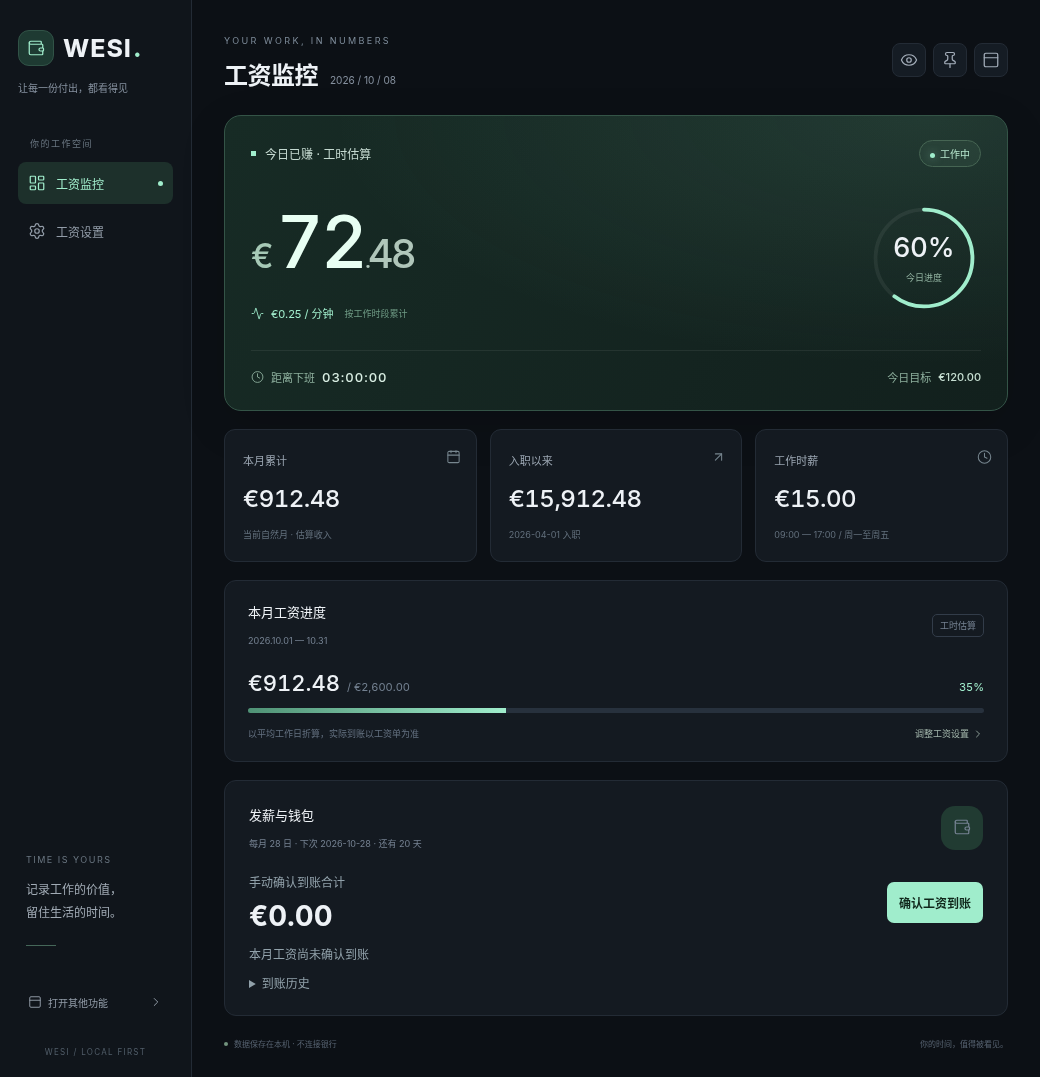
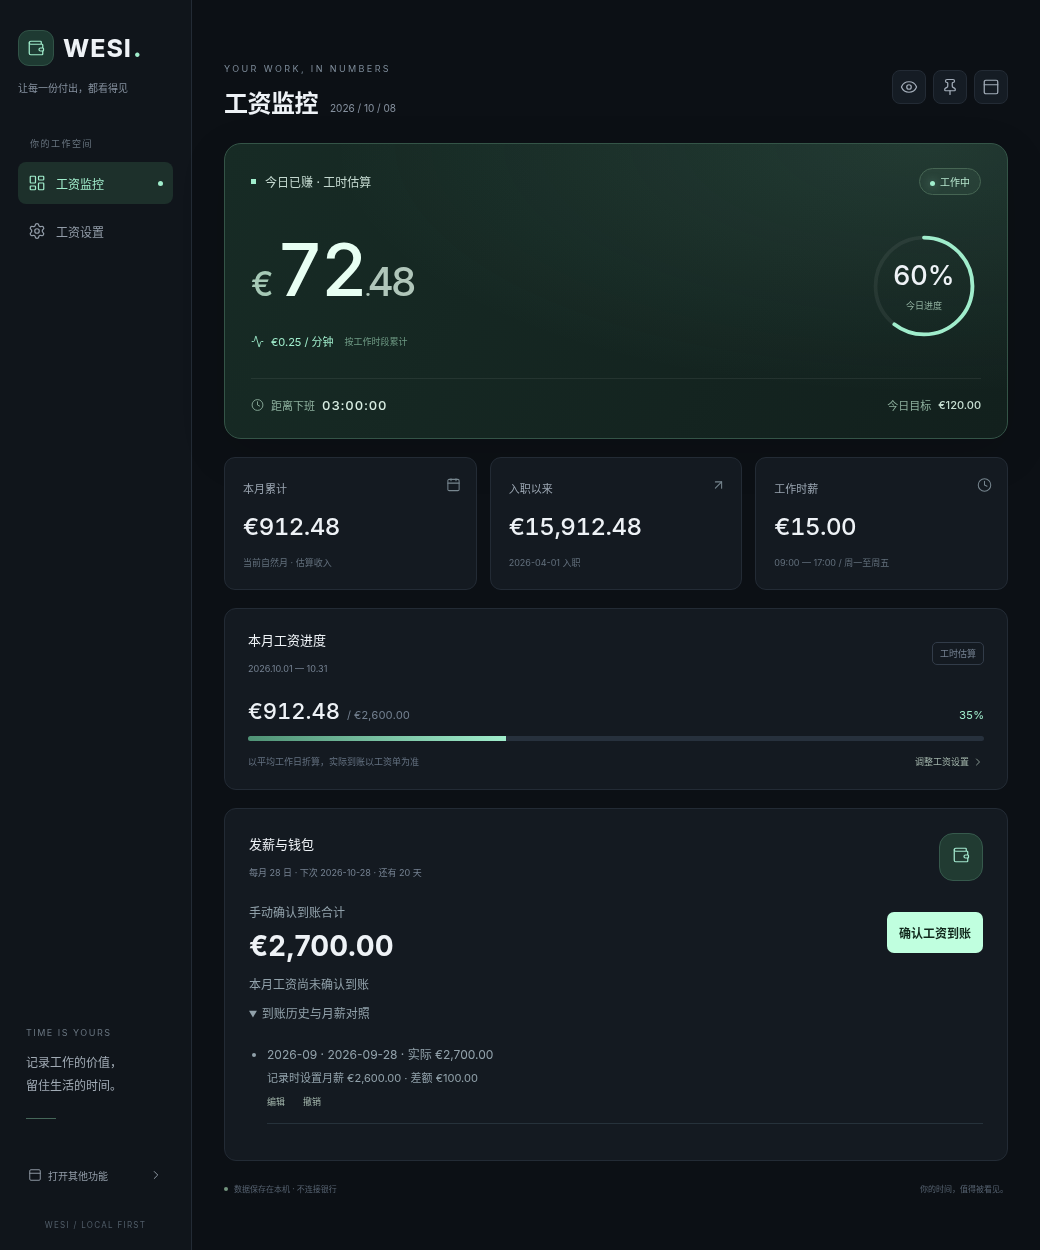
Add salary receipt editing, revocation and preserved salary comparisons

diff --git a/ui/app.js b/ui/app.js
@@ -7,6 +7,7 @@ const amount = $('amount');
 amount.format = {style: 'currency', currency: 'EUR', minimumFractionDigits: 2, maximumFractionDigits: 2};
 amount.locales = 'en-IE';
 let current = null, privacy = false, pinned = false, compact = false, pollTimer = null;
+let editingPeriod = null, historySignature = null;
 let connected = false, saving = false, generation = 0;
 const api = () => window.pywebview?.api;
 const text = (id, value) => { $(id).textContent = value; };
@@ -19,12 +20,27 @@ function render(data) {
   text('payday-info', `每月 ${payroll.payday} 日 · 下次 ${data.next_payday || '—'}${data.payday_days === undefined ? '' : ` · ${data.payday_days === 0 ? '今天发薪' : `还有 ${data.payday_days} 天`}`}`);
   const entries = Object.entries(payroll.receipts).sort(([a], [b]) => b.localeCompare(a));
   text('wallet-total', financial(entries.reduce((sum, [, receipt]) => sum + receipt.amount_cents / 100, 0)));
-  $('receipt-history').replaceChildren(...entries.map(([period, receipt]) => {
-    const item = document.createElement('li');
-    item.textContent = `${period} · ${receipt.received_on} · ${financial(receipt.amount_cents / 100)}`;
-    return item;
-  }));
-  if (!entries.length) {const li = document.createElement('li'); li.textContent = '暂无到账记录'; $('receipt-history').append(li);}
+  const signature = JSON.stringify([entries, privacy, data.income.monthly_net_salary]);
+  if (signature !== historySignature) {
+    historySignature = signature;
+    $('receipt-history').replaceChildren(...entries.map(([period, receipt]) => {
+      const item = document.createElement('li');
+      const expected = receipt.expected_cents === undefined ? data.income.monthly_net_salary : receipt.expected_cents / 100;
+      const description = document.createElement('div');
+      description.textContent = `${period} · ${receipt.received_on} · 实际 ${financial(receipt.amount_cents / 100)}`;
+      const comparison = document.createElement('div');
+      comparison.className = 'receipt-comparison';
+      comparison.textContent = `${receipt.expected_cents === undefined ? '当前设置月薪（旧记录参考）' : '记录时设置月薪'} ${financial(expected)} · 差额 ${financial(receipt.amount_cents / 100 - expected)}`;
+      item.append(description, comparison);
+      for (const [label, action] of [['编辑', () => openReceipt(period)], ['撤销', () => revokeReceipt(period)]]) {
+        const button = document.createElement('button'); button.type = 'button'; button.className = 'text-button';
+        button.textContent = label; button.setAttribute('aria-label', `${label} ${period} 到账记录`);
+        button.addEventListener('click', action); item.append(button);
+      }
+      return item;
+    }));
+    if (!entries.length) {const li = document.createElement('li'); li.textContent = '暂无到账记录'; $('receipt-history').append(li);}
+  }
   text('receipt-status', payroll.receipts[data.date.slice(0, 7)] ? '本月工资已记录到账' : '本月工资尚未确认到账');
   text('date', data.date.replaceAll('-', ' / '));
   text('status', data.status);
@@ -155,16 +171,35 @@ document.addEventListener('visibilitychange', () => {
   }
 });
 
-$('receipt-open').addEventListener('click', () => {
+function openReceipt(period = null) {
   if (!current || saving) return;
-  $('receipt-period').value = current.date.slice(0, 7);
+  editingPeriod = period;
+  const receipt = period ? current.payroll.receipts[period] : null;
+  $('receipt-period').value = period || current.date.slice(0, 7);
   $('receipt-period').max = current.date.slice(0, 7);
-  $('receipt-date').value = current.date;
+  $('receipt-date').value = receipt?.received_on || current.date;
   $('receipt-date').max = current.date;
-  $('receipt-amount').value = current.income.monthly_net_salary;
+  $('receipt-amount').value = receipt ? (receipt.amount_cents / 100).toFixed(2) : current.income.monthly_net_salary;
+  text('receipt-title', period ? '编辑到账记录' : '确认工资到账');
+  $('receipt-form').querySelector('button[type=submit]').textContent = period ? '保存修改' : '保存到账记录';
   text('receipt-error', '');
   $('receipt-dialog').showModal();
+}
+$('receipt-open').addEventListener('click', () => openReceipt());
+$('wallet-icon').addEventListener('click', () => { $('wallet-details').open = !$('wallet-details').open; });
+$('wallet-details').addEventListener('toggle', () => {
+  $('wallet-icon').setAttribute('aria-expanded', String($('wallet-details').open));
 });
+async function revokeReceipt(period) {
+  if (saving || !confirm(`撤销 ${period} 的到账记录？钱包合计会扣除这笔记录，此操作不会移动银行资金。`)) return;
+  saving = true; generation += 1;
+  try {
+    const result = await api().revoke_receipt(period);
+    if (!result.ok) {text('receipt-notice', result.error); return;}
+    render(result.snapshot); text('receipt-notice', `${period} 到账记录已撤销`);
+  } catch {text('receipt-notice', '撤销结果尚未确认，请刷新明细后检查。');}
+  finally {saving = false;}
+}
 $('receipt-close').addEventListener('click', () => $('receipt-dialog').close());
 function celebrateReceipt() {
   if (privacy || current.payroll?.animations === false || matchMedia('(prefers-reduced-motion: reduce)').matches) return;
@@ -195,13 +230,15 @@ $('receipt-form').addEventListener('submit', async event => {
   const button = event.submitter;
   saving = true; generation += 1; button.disabled = true;
   try {
-    const result = await api().confirm_receipt({
+    const payload = {
       period: $('receipt-period').value, amount: $('receipt-amount').value, received_on: $('receipt-date').value,
-    });
+    };
+    const result = editingPeriod ? await api().edit_receipt(editingPeriod, payload) : await api().confirm_receipt(payload);
     if (!result.ok) {text('receipt-error', result.error); return;}
     render(result.snapshot);
     $('receipt-dialog').close();
-    celebrateReceipt();
+    if (editingPeriod) text('receipt-notice', '到账记录已更新');
+    else {text('receipt-notice', '到账记录已保存'); celebrateReceipt();}
   } catch {text('receipt-error', '未能确认记录是否保存，请重试；同一月份不会重复记账。');}
   finally {saving = false; button.disabled = false;}
 });

diff --git a/ui/tests/dashboard.spec.js b/ui/tests/dashboard.spec.js
@@ -23,6 +23,19 @@ test.beforeEach(async ({ page }) => {
         window.fixture.payroll.receipts[payload.period] = {amount_cents: Math.round(Number(payload.amount)*100), received_on: payload.received_on};
         return {ok:true, snapshot:window.fixture};
       },
+      edit_receipt: async (original, payload) => {
+        if (window.failReceipt) return {ok:false, error:'保存失败'};
+        if (payload.period !== original && window.fixture.payroll.receipts[payload.period]) return {ok:false, error:'已经记录到账'};
+        const receipt = window.fixture.payroll.receipts[original];
+        delete window.fixture.payroll.receipts[original];
+        window.fixture.payroll.receipts[payload.period] = {...receipt, amount_cents: Math.round(Number(payload.amount)*100), received_on: payload.received_on};
+        return {ok:true, snapshot:window.fixture};
+      },
+      revoke_receipt: async period => {
+        if (window.failReceipt) return {ok:false, error:'撤销保存失败'};
+        delete window.fixture.payroll.receipts[period];
+        return {ok:true, snapshot:window.fixture};
+      },
       set_pin: async value => { window.calls.push(['pin', value]); return value; },
       set_compact: async value => { window.calls.push(['compact', value]); return value; },
       open_classic: async () => window.calls.push(['classic']),
@@ -124,4 +137,44 @@ test('failed receipt does not celebrate and reduced motion skips coins', async (
   await page.getByRole('button', {name:'保存到账记录'}).click();
   await expect(page.locator('#wallet-total')).toHaveText('€2,600.00');
   await expect(page.locator('.receipt-coin')).toHaveCount(0);
+});
+
+test('wallet edits compare salary, skip animation and revoke only after confirmation', async ({ page }) => {
+  await page.emulateMedia({reducedMotion:'reduce'});
+  await page.locator('#receipt-open').click();
+  await page.getByRole('button', {name:'保存到账记录'}).click();
+  await page.locator('#wallet-icon').click();
+  await expect(page.locator('#wallet-details')).toHaveAttribute('open', '');
+  await page.getByRole('button', {name:'编辑 2026-10 到账记录'}).click();
+  await page.locator('#receipt-amount').fill('2700');
+  await page.emulateMedia({reducedMotion:'no-preference'});
+  await page.getByRole('button', {name:'保存修改'}).click();
+  await expect(page.locator('#wallet-total')).toHaveText('€2,700.00');
+  await expect(page.locator('#receipt-history')).toContainText('差额 €100.00');
+  await expect(page.locator('.receipt-coin')).toHaveCount(0);
+  page.once('dialog', dialog => dialog.dismiss());
+  await page.getByRole('button', {name:'撤销 2026-10 到账记录'}).click();
+  await expect(page.locator('#wallet-total')).toHaveText('€2,700.00');
+  page.once('dialog', dialog => dialog.accept());
+  await page.getByRole('button', {name:'撤销 2026-10 到账记录'}).click();
+  await expect(page.locator('#wallet-total')).toHaveText('€0.00');
+  await expect(page.locator('#receipt-history')).toHaveText('暂无到账记录');
+});
+
+test('editing failure keeps dialog and record; revocation failure preserves wallet', async ({ page }) => {
+  await page.emulateMedia({reducedMotion:'reduce'});
+  await page.locator('#receipt-open').click();
+  await page.getByRole('button', {name:'保存到账记录'}).click();
+  await page.locator('#wallet-icon').click();
+  await page.evaluate(() => {window.failReceipt = true;});
+  await page.getByRole('button', {name:'编辑 2026-10 到账记录'}).click();
+  await page.locator('#receipt-amount').fill('2900');
+  await page.getByRole('button', {name:'保存修改'}).click();
+  await expect(page.locator('#receipt-error')).toHaveText('保存失败');
+  await expect(page.locator('#wallet-total')).toHaveText('€2,600.00');
+  await page.locator('#receipt-close').click();
+  page.once('dialog', dialog => dialog.accept());
+  await page.getByRole('button', {name:'撤销 2026-10 到账记录'}).click();
+  await expect(page.locator('#receipt-notice')).toHaveText('撤销保存失败');
+  await expect(page.locator('#wallet-total')).toHaveText('€2,600.00');
 });

diff --git a/ui/index.html b/ui/index.html
@@ -42,9 +42,9 @@
     </section>
     <section class="period card"><div class="section-heading"><div><h2>本月工资进度</h2><span id="period">—</span></div><span class="period-tag">工时估算</span></div><div class="period-values"><strong id="period-earned">—</strong><span>/ <b id="salary">—</b></span><span id="month-percent">—</span></div><div class="progress-track"><div id="month-fill"></div></div><div class="period-foot"><span>以平均工作日折算，实际到账以工资单为准</span><button class="text-button settings-open">调整工资设置<i data-lucide="chevron-right"></i></button></div></section>
     <section class="wallet-card card" aria-label="工资到账">
-      <div class="section-heading"><div><h2>发薪与钱包</h2><span id="payday-info">每月 28 日</span></div><span id="wallet-icon" class="wallet-icon"><i data-lucide="wallet"></i></span></div>
+      <div class="section-heading"><div><h2>发薪与钱包</h2><span id="payday-info">每月 28 日</span></div><button id="wallet-icon" class="wallet-icon" aria-label="展开到账明细" aria-expanded="false"><i data-lucide="wallet"></i></button></div>
       <div class="wallet-summary"><div><span>手动确认到账合计</span><strong id="wallet-total">—</strong></div><button id="receipt-open" class="save-button">确认工资到账</button></div>
-      <p id="receipt-status" role="status"></p><details><summary>到账历史</summary><ul id="receipt-history"></ul></details>
+      <p id="receipt-status" role="status"></p><p id="receipt-notice" role="status"></p><details id="wallet-details"><summary>到账历史与月薪对照</summary><ul id="receipt-history"></ul></details>
     </section>
     <footer><span><span class="local-dot"></span>数据保存在本机 · 不连接银行</span><span>你的时间，值得被看见。</span></footer>
   </main>
@@ -66,7 +66,7 @@
   <label>工资所属月份<input id="receipt-period" type="month" required></label>
   <label>实际到账金额 (€)<input id="receipt-amount" type="number" min="0.01" max="1000000000" step="0.01" required></label>
   <label>实际到账日期<input id="receipt-date" type="date" required></label>
-  <p class="form-note">请确认银行或工资单后再记录。每个工资月份只能确认一次；此操作不会改变工时估算。</p>
+  <p class="form-note">请确认银行或工资单后再记录。每个工资月份只保留一笔；修改或撤销不会改变工时估算。</p>
   <div id="receipt-error" class="form-error" role="alert"></div><button class="save-button" type="submit">保存到账记录</button>
 </form></dialog>
 <div id="coin-layer" aria-hidden="true"></div>

diff --git a/ui/style.css b/ui/style.css
@@ -774,3 +774,9 @@ input {
 .receipt-coin { position: absolute; width: 28px; height: 28px; image-rendering: pixelated; }
 .compact .wallet-card { display: none; }
 @media (max-width: 550px) { .wallet-summary { align-items: flex-start; flex-direction: column; } }
+
+.wallet-icon { border: 1px solid #36594c; cursor: pointer; }
+#receipt-history li { padding: 10px 0; border-bottom: 1px solid #26323b; }
+#receipt-history .text-button { display: inline-flex; margin-right: 18px; }
+.receipt-comparison { font-size: 11px; }
+#receipt-notice { color: #a4e9cf; font-size: 12px; }

diff --git a/salary_web.py b/salary_web.py
@@ -87,7 +87,15 @@ class SalaryAPI:
                 return {"ok": False, "error": "无法保存设置，请检查存档目录的写入权限。"}
 
     def confirm_receipt(self, payload):
-        """One durable receipt per salary month; lock also covers duplicate requests."""
+        return self._save_receipt(payload)
+
+    def edit_receipt(self, original_period, payload):
+        if not isinstance(original_period, str):
+            return {"ok": False, "error": "原到账月份无效。"}
+        return self._save_receipt(payload, original_period)
+
+    def _save_receipt(self, payload, original_period=None):
+        """Validate and persist before changing memory, including month moves."""
         with self._lock:
             try:
                 period = payload["period"]
@@ -99,12 +107,21 @@ class SalaryAPI:
                 amount = Decimal(str(payload["amount"]))
                 if not amount.is_finite() or not Decimal("0.01") <= amount <= Decimal("1000000000") or amount != amount.quantize(Decimal("0.01")):
                     raise ValueError("Invalid amount")
-                if period in self._store.state["payroll"]["receipts"]:
+                receipts = self._store.state["payroll"]["receipts"]
+                if original_period is not None and original_period not in receipts:
+                    return {"ok": False, "error": "原到账记录不存在，请刷新后重试。"}
+                if period in receipts and period != original_period:
                     return {"ok": False, "error": "这个工资月份已经记录到账，请勿重复确认。"}
                 updated = copy.deepcopy(self._store.state)
+                original = receipts.get(original_period, {})
+                if original_period is not None:
+                    del updated["payroll"]["receipts"][original_period]
                 updated["payroll"]["receipts"][period] = {
+                    **original,
+                    **({"expected_cents": int(Decimal(str(updated["income"]["monthly_net_salary"])).quantize(Decimal("0.01")) * 100)} if original_period is None else {}),
                     "amount_cents": int(amount * 100), "received_on": received.isoformat(),
-                    "recorded_at": self._clock().isoformat(timespec="seconds"),
+                    "recorded_at": original.get("recorded_at", self._clock().isoformat(timespec="seconds")),
+                    "updated_at": self._clock().isoformat(timespec="seconds"),
                 }
                 self._store.save(updated)
                 self._store.state = updated
@@ -113,6 +130,19 @@ class SalaryAPI:
                 return {"ok": False, "error": "请输入有效的工资月份、非未来到账日期和正数金额（最多两位小数）。"}
             except OSError:
                 return {"ok": False, "error": "到账记录保存失败，请检查目录权限后重试。"}
+
+    def revoke_receipt(self, period):
+        with self._lock:
+            if not isinstance(period, str) or period not in self._store.state["payroll"]["receipts"]:
+                return {"ok": False, "error": "到账记录不存在，请刷新后重试。"}
+            updated = copy.deepcopy(self._store.state)
+            del updated["payroll"]["receipts"][period]
+            try:
+                self._store.save(updated)
+            except OSError:
+                return {"ok": False, "error": "撤销保存失败，记录仍然保留，请重试。"}
+            self._store.state = updated
+            return {"ok": True, "snapshot": self.snapshot()}
 
     def set_pin(self, enabled):
         if not isinstance(enabled, bool):

diff --git a/tests/test_salary_web.py b/tests/test_salary_web.py
@@ -102,6 +102,33 @@ class SalaryAPITests(unittest.TestCase):
         self.assertEqual(DataStore(self.path).state["payroll"]["payday"], 31)
         self.assertFalse(DataStore(self.path).state["payroll"]["animations"])
 
+    def test_edit_move_keeps_baseline_and_revoke_persists(self):
+        payload = {"period": "2026-10", "received_on": "2026-10-07", "amount": "2600"}
+        self.assertTrue(self.api.confirm_receipt(payload)["ok"])
+        self.api._store.state["income"]["monthly_net_salary"] = 3000
+        self.assertTrue(self.api.edit_receipt("2026-10", payload | {"period": "2026-09", "amount": "2700.12"})["ok"])
+        records = DataStore(self.path).state["payroll"]["receipts"]
+        self.assertNotIn("2026-10", records)
+        self.assertEqual(records["2026-09"]["amount_cents"], 270012)
+        self.assertEqual(records["2026-09"]["expected_cents"], 260000)
+        self.assertTrue(self.api.revoke_receipt("2026-09")["ok"])
+        self.assertFalse(DataStore(self.path).state["payroll"]["receipts"])
+        self.assertFalse(self.api.revoke_receipt("2026-09")["ok"])
+
+    def test_edit_collision_and_failures_keep_original(self):
+        payload = {"period": "2026-10", "received_on": "2026-10-07", "amount": "2600"}
+        self.api.confirm_receipt(payload)
+        self.api.confirm_receipt(payload | {"period": "2026-09"})
+        before = copy.deepcopy(self.api._store.state)
+        for original, change in [("2026-10", {"period": "2026-09"}), ("2026-08", {}), ("2026-10", {"amount": "nan"})]:
+            self.assertFalse(self.api.edit_receipt(original, payload | change)["ok"])
+            self.assertEqual(self.api._store.state, before)
+        with patch.object(self.api._store, "save", side_effect=OSError("disk")):
+            self.assertFalse(self.api.edit_receipt("2026-10", payload | {"amount": "2700"})["ok"])
+            self.assertFalse(self.api.revoke_receipt("2026-10")["ok"])
+        self.assertEqual(self.api._store.state, before)
+        self.assertEqual(DataStore(self.path).state, before)
+
     def test_native_controls_and_exclusive_classic_handoff(self):
         window = self.api._window = Mock()
         self.assertTrue(self.api.set_pin(True))

diff --git a/tools/check_webview.py b/tools/check_webview.py
@@ -37,6 +37,12 @@ def main():
                 window.evaluate_js("document.getElementById('receipt-open').click(); document.getElementById('receipt-form').requestSubmit(document.querySelector('#receipt-form button[type=submit]'))")
                 wait_for("document.getElementById('wallet-total').textContent === '€2,600.00'")
                 assert api._store.state["payroll"]["receipts"]["2026-10"]["amount_cents"] == 260000
+                window.evaluate_js("document.getElementById('wallet-icon').click(); document.querySelector('[aria-label=\"编辑 2026-10 到账记录\"]').click(); document.getElementById('receipt-amount').value='2700'; document.getElementById('receipt-form').requestSubmit(document.querySelector('#receipt-form button[type=submit]'))")
+                wait_for("document.getElementById('wallet-total').textContent === '€2,700.00'")
+                assert api._store.state["payroll"]["receipts"]["2026-10"]["amount_cents"] == 270000
+                window.evaluate_js("window.confirm=()=>true; document.querySelector('[aria-label=\"撤销 2026-10 到账记录\"]').click()")
+                wait_for("document.getElementById('wallet-total').textContent === '€0.00'")
+                assert not api._store.state["payroll"]["receipts"]
                 window.evaluate_js("document.getElementById('privacy').click()")
                 wait_for("document.getElementById('amount').hidden")
                 window.evaluate_js("document.getElementById('pin').click()")
@@ -45,7 +51,7 @@ def main():
                 window.evaluate_js("document.getElementById('compact').click()")
                 wait_for("document.body.classList.contains('compact')")
                 assert window.width == 420 and window.height == 440
-                print("PASS: native WebView, real Python snapshot, NumberFlow, persisted salary receipt, privacy, native pin and compact resize")
+                print("PASS: native WebView, real Python snapshot, NumberFlow, persisted salary receipt creation/edit/revocation, privacy, native pin and compact resize")
             except Exception as exc:
                 errors.append(exc)
             finally:

diff --git a/README.md b/README.md
@@ -11,7 +11,7 @@ Wage Extraction & Survival Interface
 
 默认启动新的工资监控桌面界面，使用 [NumberFlow](https://github.com/barvian/number-flow) 金额动画、[Lucide](https://github.com/lucide-icons/lucide) 图标和 pywebview。支持金额隐私、窗口置顶、紧凑视图、工作倒计时和工资设置。
 
-发薪日默认每月 28 日，可在设置中调整为 1–31 日；短月使用月末，不自动因周末提前或顺延。工资月份与实际到账日期分别记录，每个工资月份只能确认一次，金额以整数分保存。确认成功后金币飞入钱包；可关闭动画，隐藏金额或系统减少动态效果时也不播放。钱包合计为手动确认记录的总额，不是银行余额。当前不支持分笔到账或记录编辑，确认前请核对金额和月份。组件、字体与授权说明见 [ui/THIRD_PARTY.md](ui/THIRD_PARTY.md)，运行无需 Node.js 或联网下载美术资源。
+发薪日默认每月 28 日，可在设置中调整为 1–31 日；短月使用月末，不自动因周末提前或顺延。工资月份与实际到账日期分别记录，每个工资月份只能确认一次，金额以整数分保存。确认成功后金币飞入钱包；可关闭动画，隐藏金额或系统减少动态效果时也不播放。钱包合计为手动确认记录的总额，不是银行余额。点击钱包展开明细，可编辑金额、到账日期和所属月份，或经确认撤销记录。修改月份不会覆盖已有记录。新增记录保留当时的设置月薪，显示实际到账与月薪差额；旧记录标注当前设置月薪参考，不能还原历史月薪。差额不代表扣税或扣款的自动判断。编辑不播放金币动画，撤销后可重新确认。当前仍不支持分笔到账。组件、字体与授权说明见 [ui/THIRD_PARTY.md](ui/THIRD_PARTY.md)，运行无需 Node.js 或联网下载美术资源。
 
 ![工资监控预览（演示数据）](docs/screenshots/salary-web.png)
 
